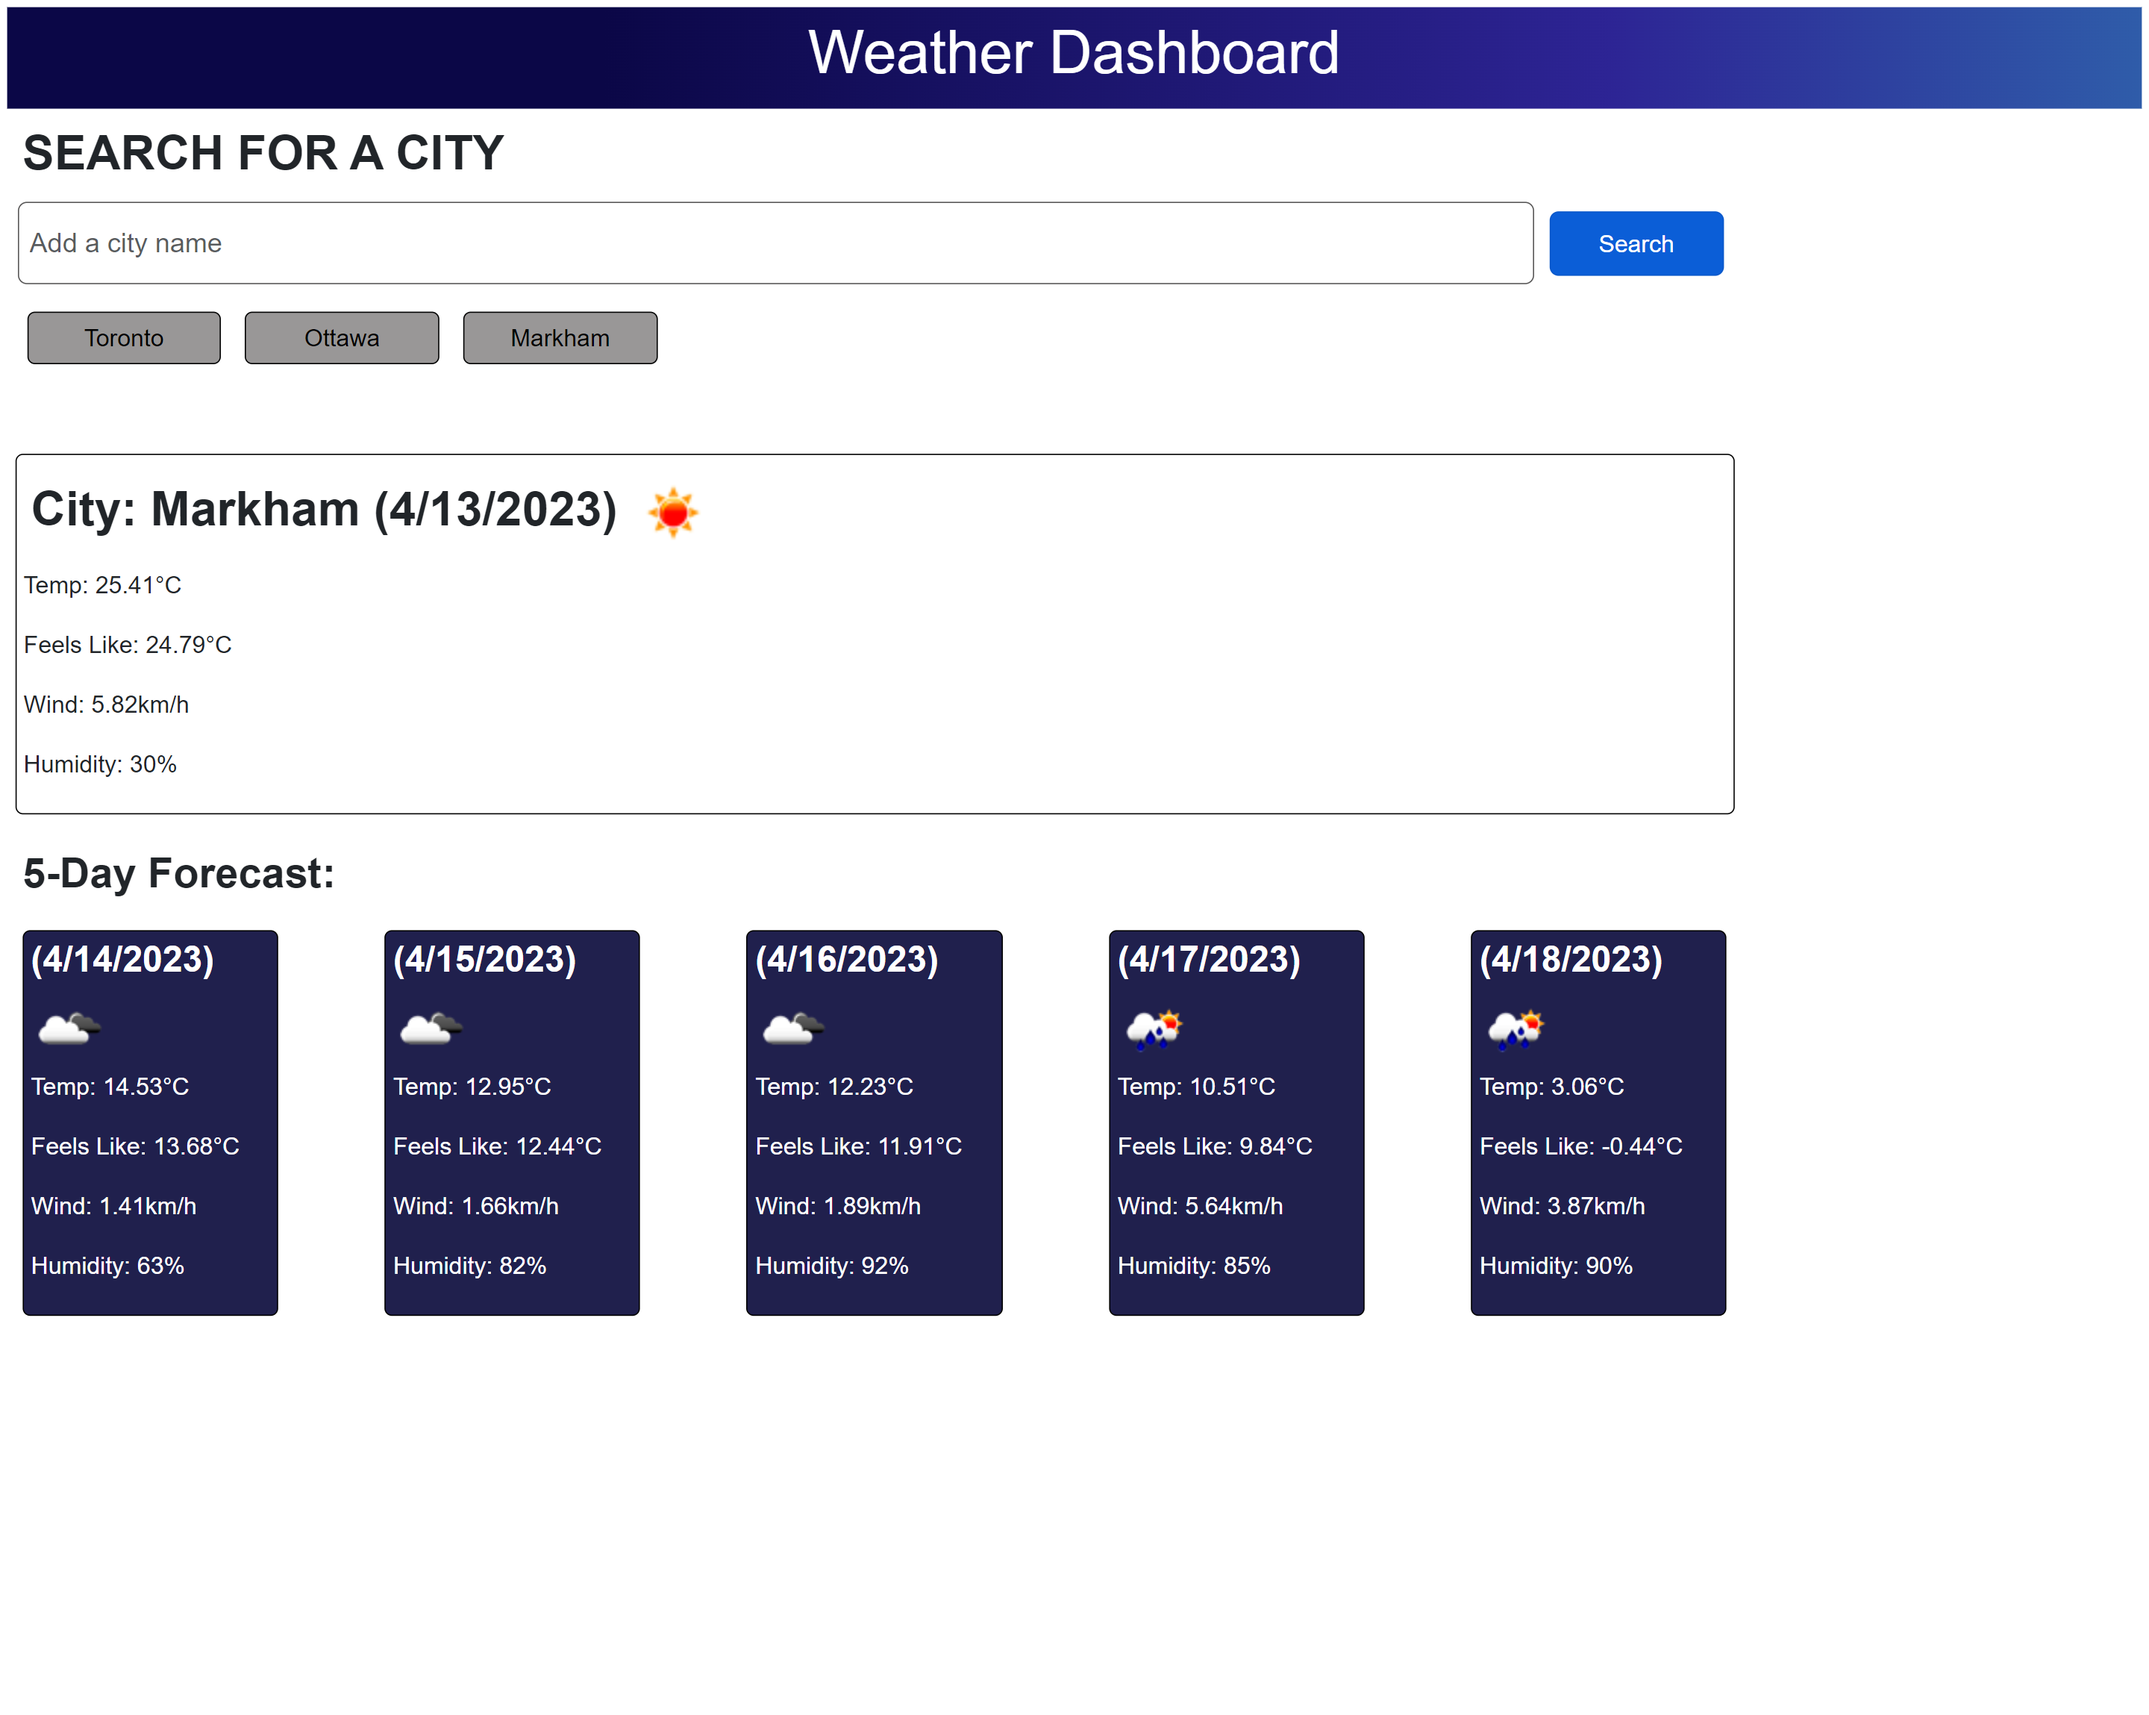
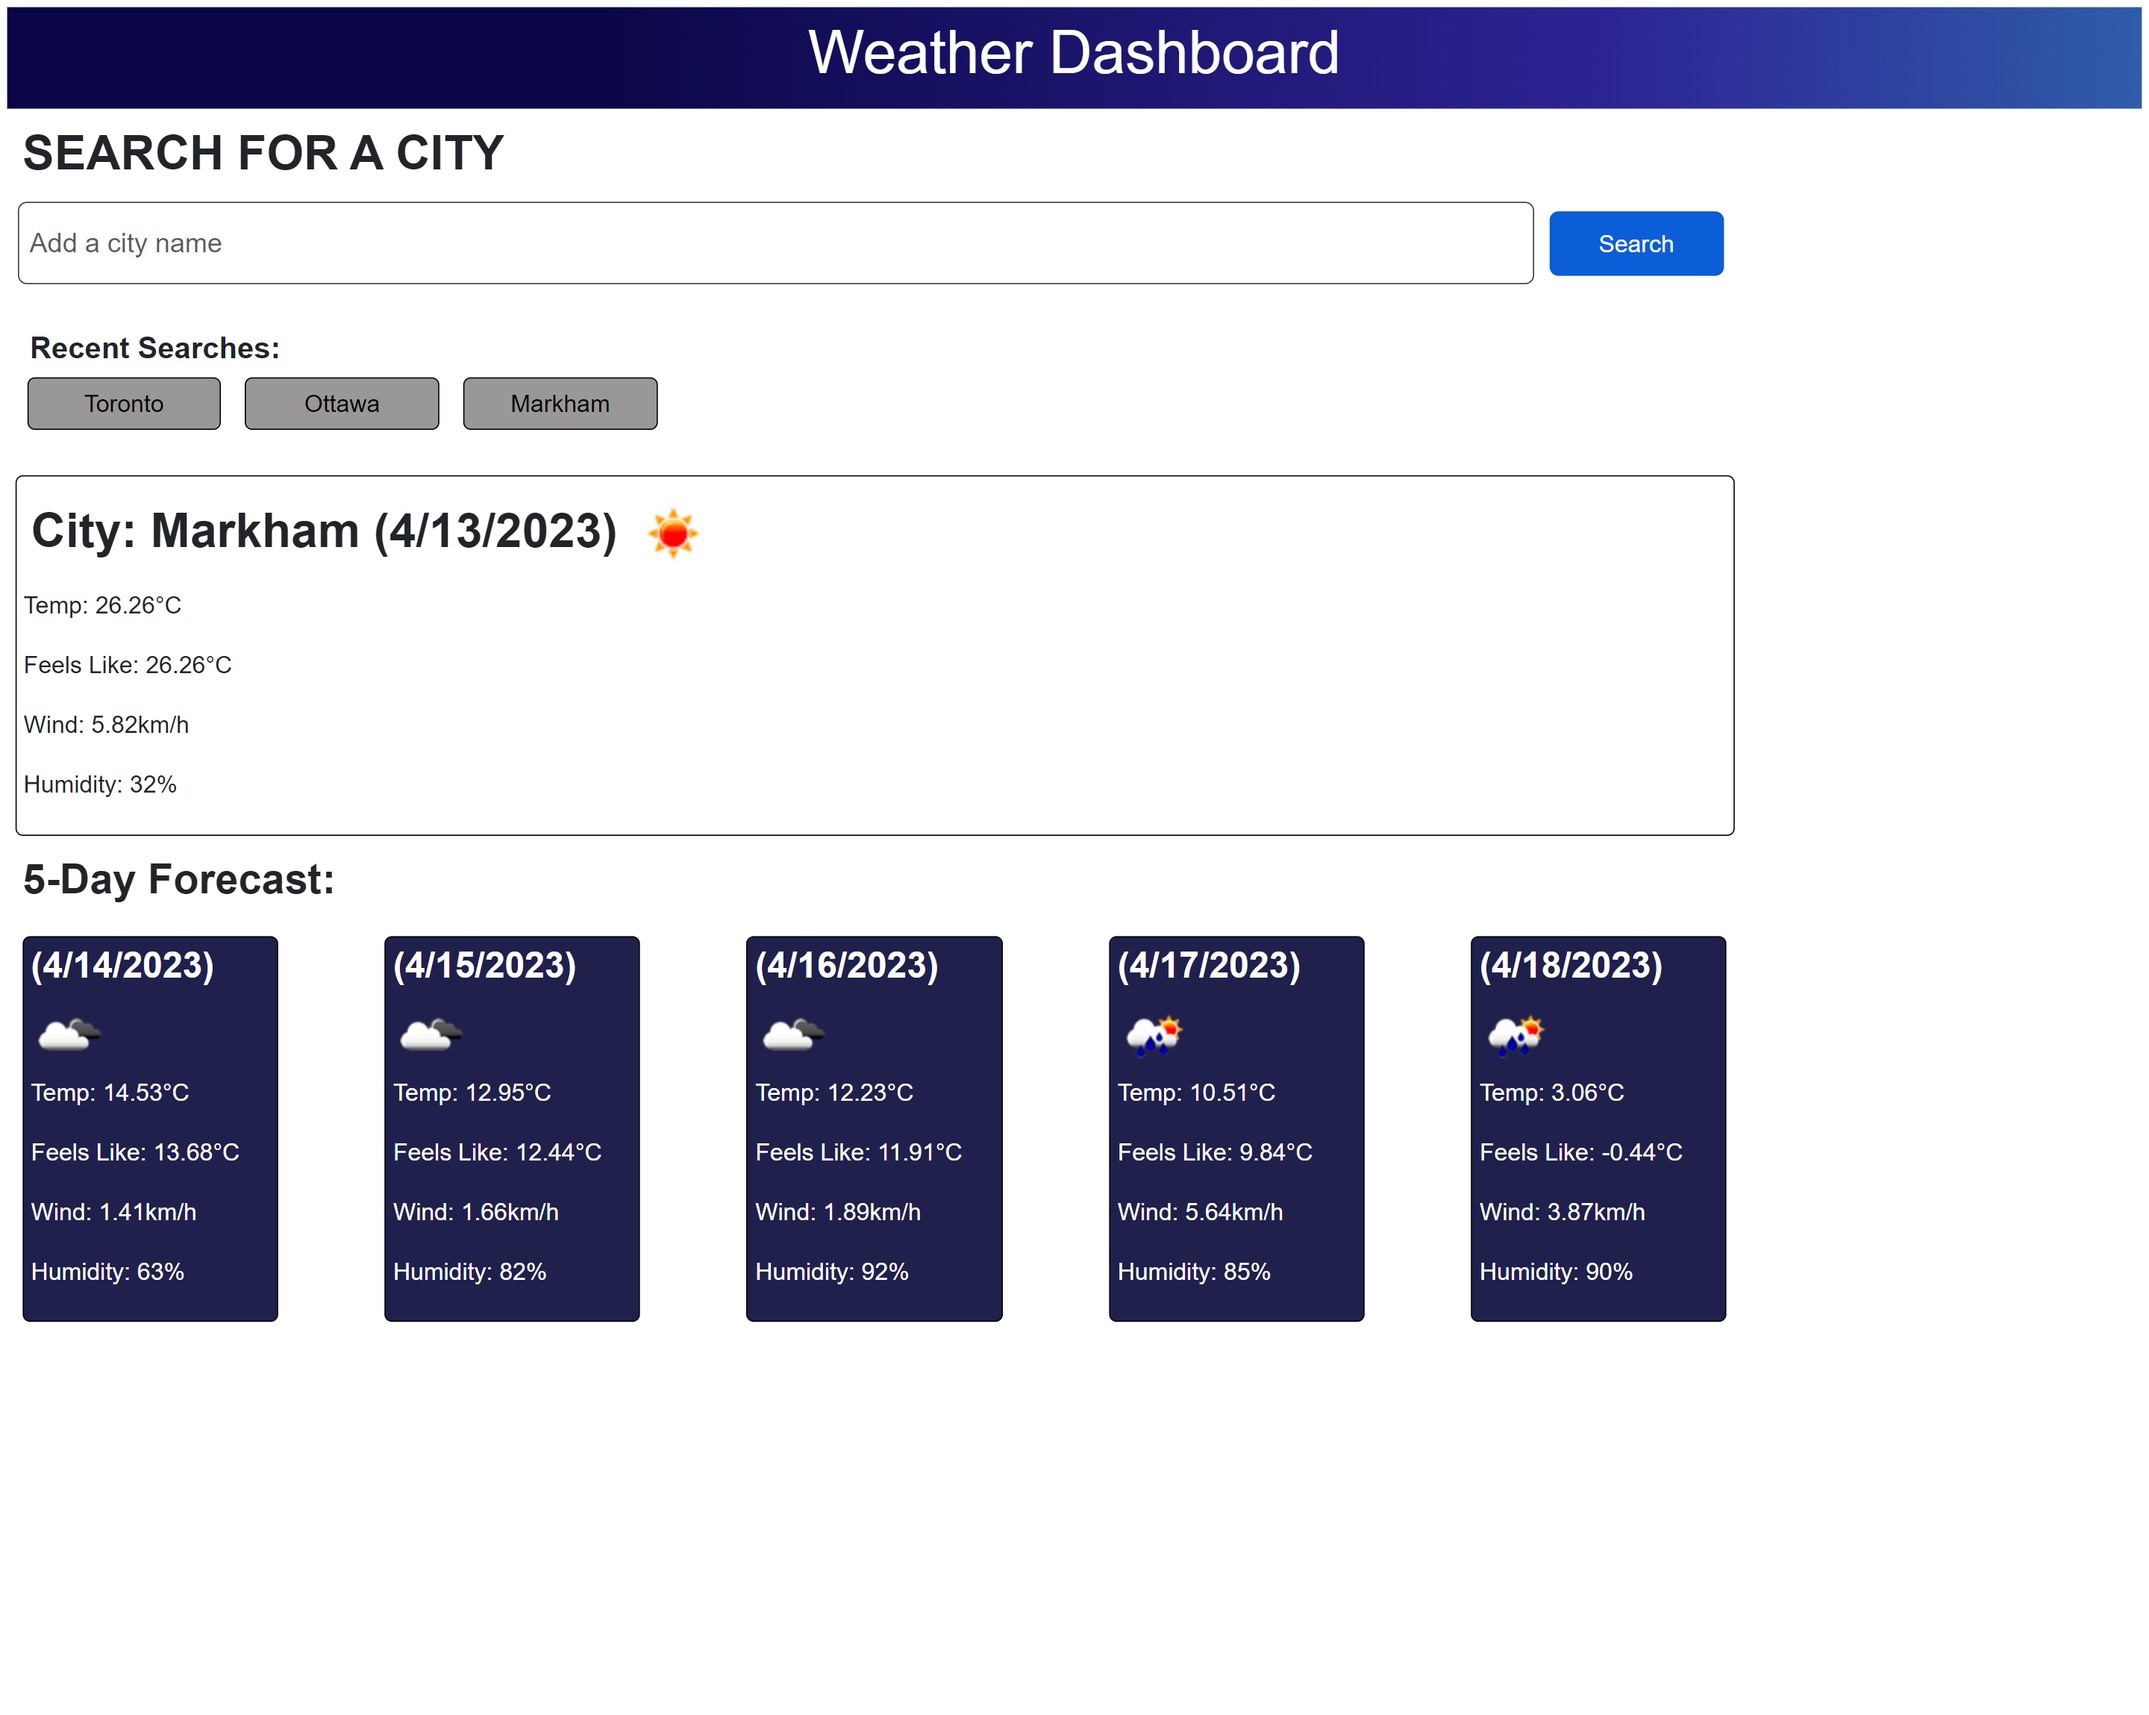
added text recent search and updated screenshots readme file

diff --git a/assets/stylesheet.css b/assets/stylesheet.css
@@ -42,7 +42,7 @@ button[button-history] {
     padding: 7px;
     margin: 10px;
     font-size: 18px;
-    border: solid 1px rgb(88, 87, 87);
+    border: solid 1px rgb(59, 58, 58);
 }
 
 .btn {
@@ -54,7 +54,7 @@ button[button-history] {
     display: flex;
     width: 100%;
     flex-wrap: wrap;
-    margin-top: 50px;
+    margin-top: 20px;
 }
 
 #currentWeather {
@@ -83,6 +83,11 @@ h4 {
     font-weight: bold;
 }
 
+h5 {
+    margin: 20px 0 0 10px;
+    font-weight: bold;
+}
+
 #forecast {
     padding: 5px;
     margin: 2px 0 2px 10px;
@@ -93,7 +98,7 @@ h4 {
 }
 
 #uvIndex {
-    margin: 15px 0 2px 10px;
+    margin: 5px 0 2px 10px;
     padding: 5px;
     width: 80%;
     font-weight: bold;

diff --git a/index.html b/index.html
@@ -29,6 +29,7 @@
       </div>
       </form>
     
+      <h5>Recent Searches:</h5>
     <div id="search-history"></div>
   </div>
 
